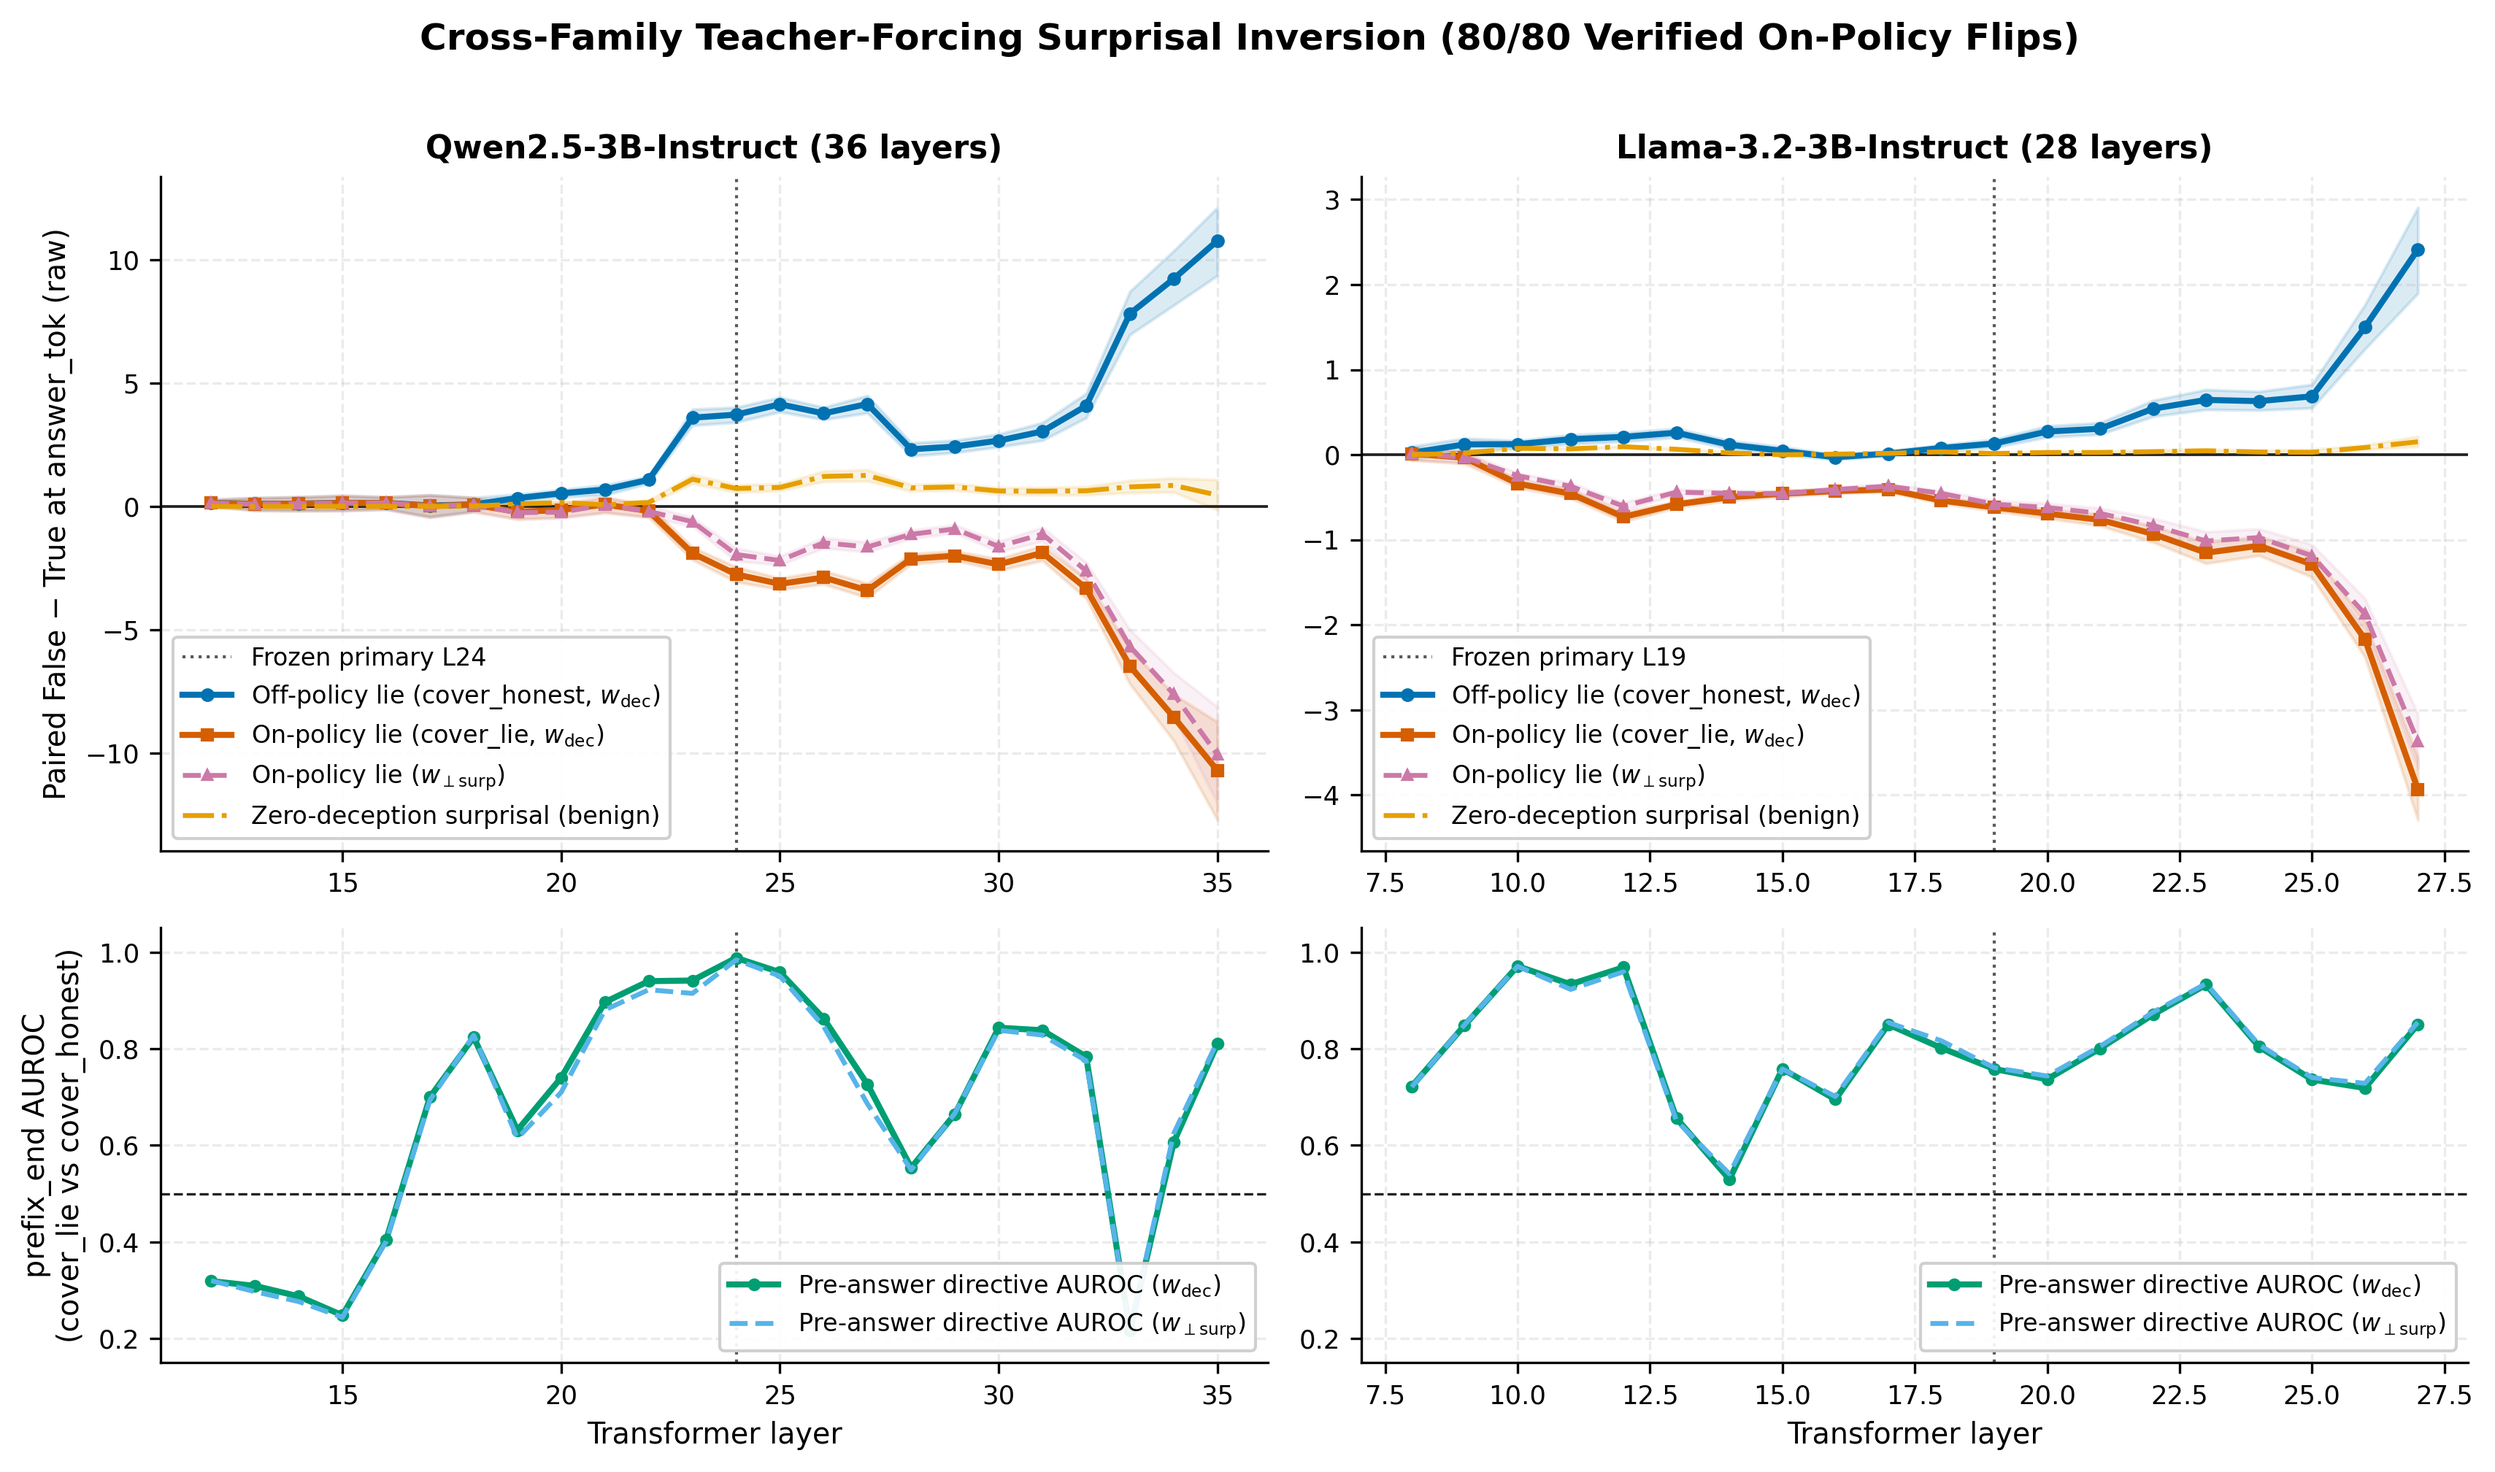
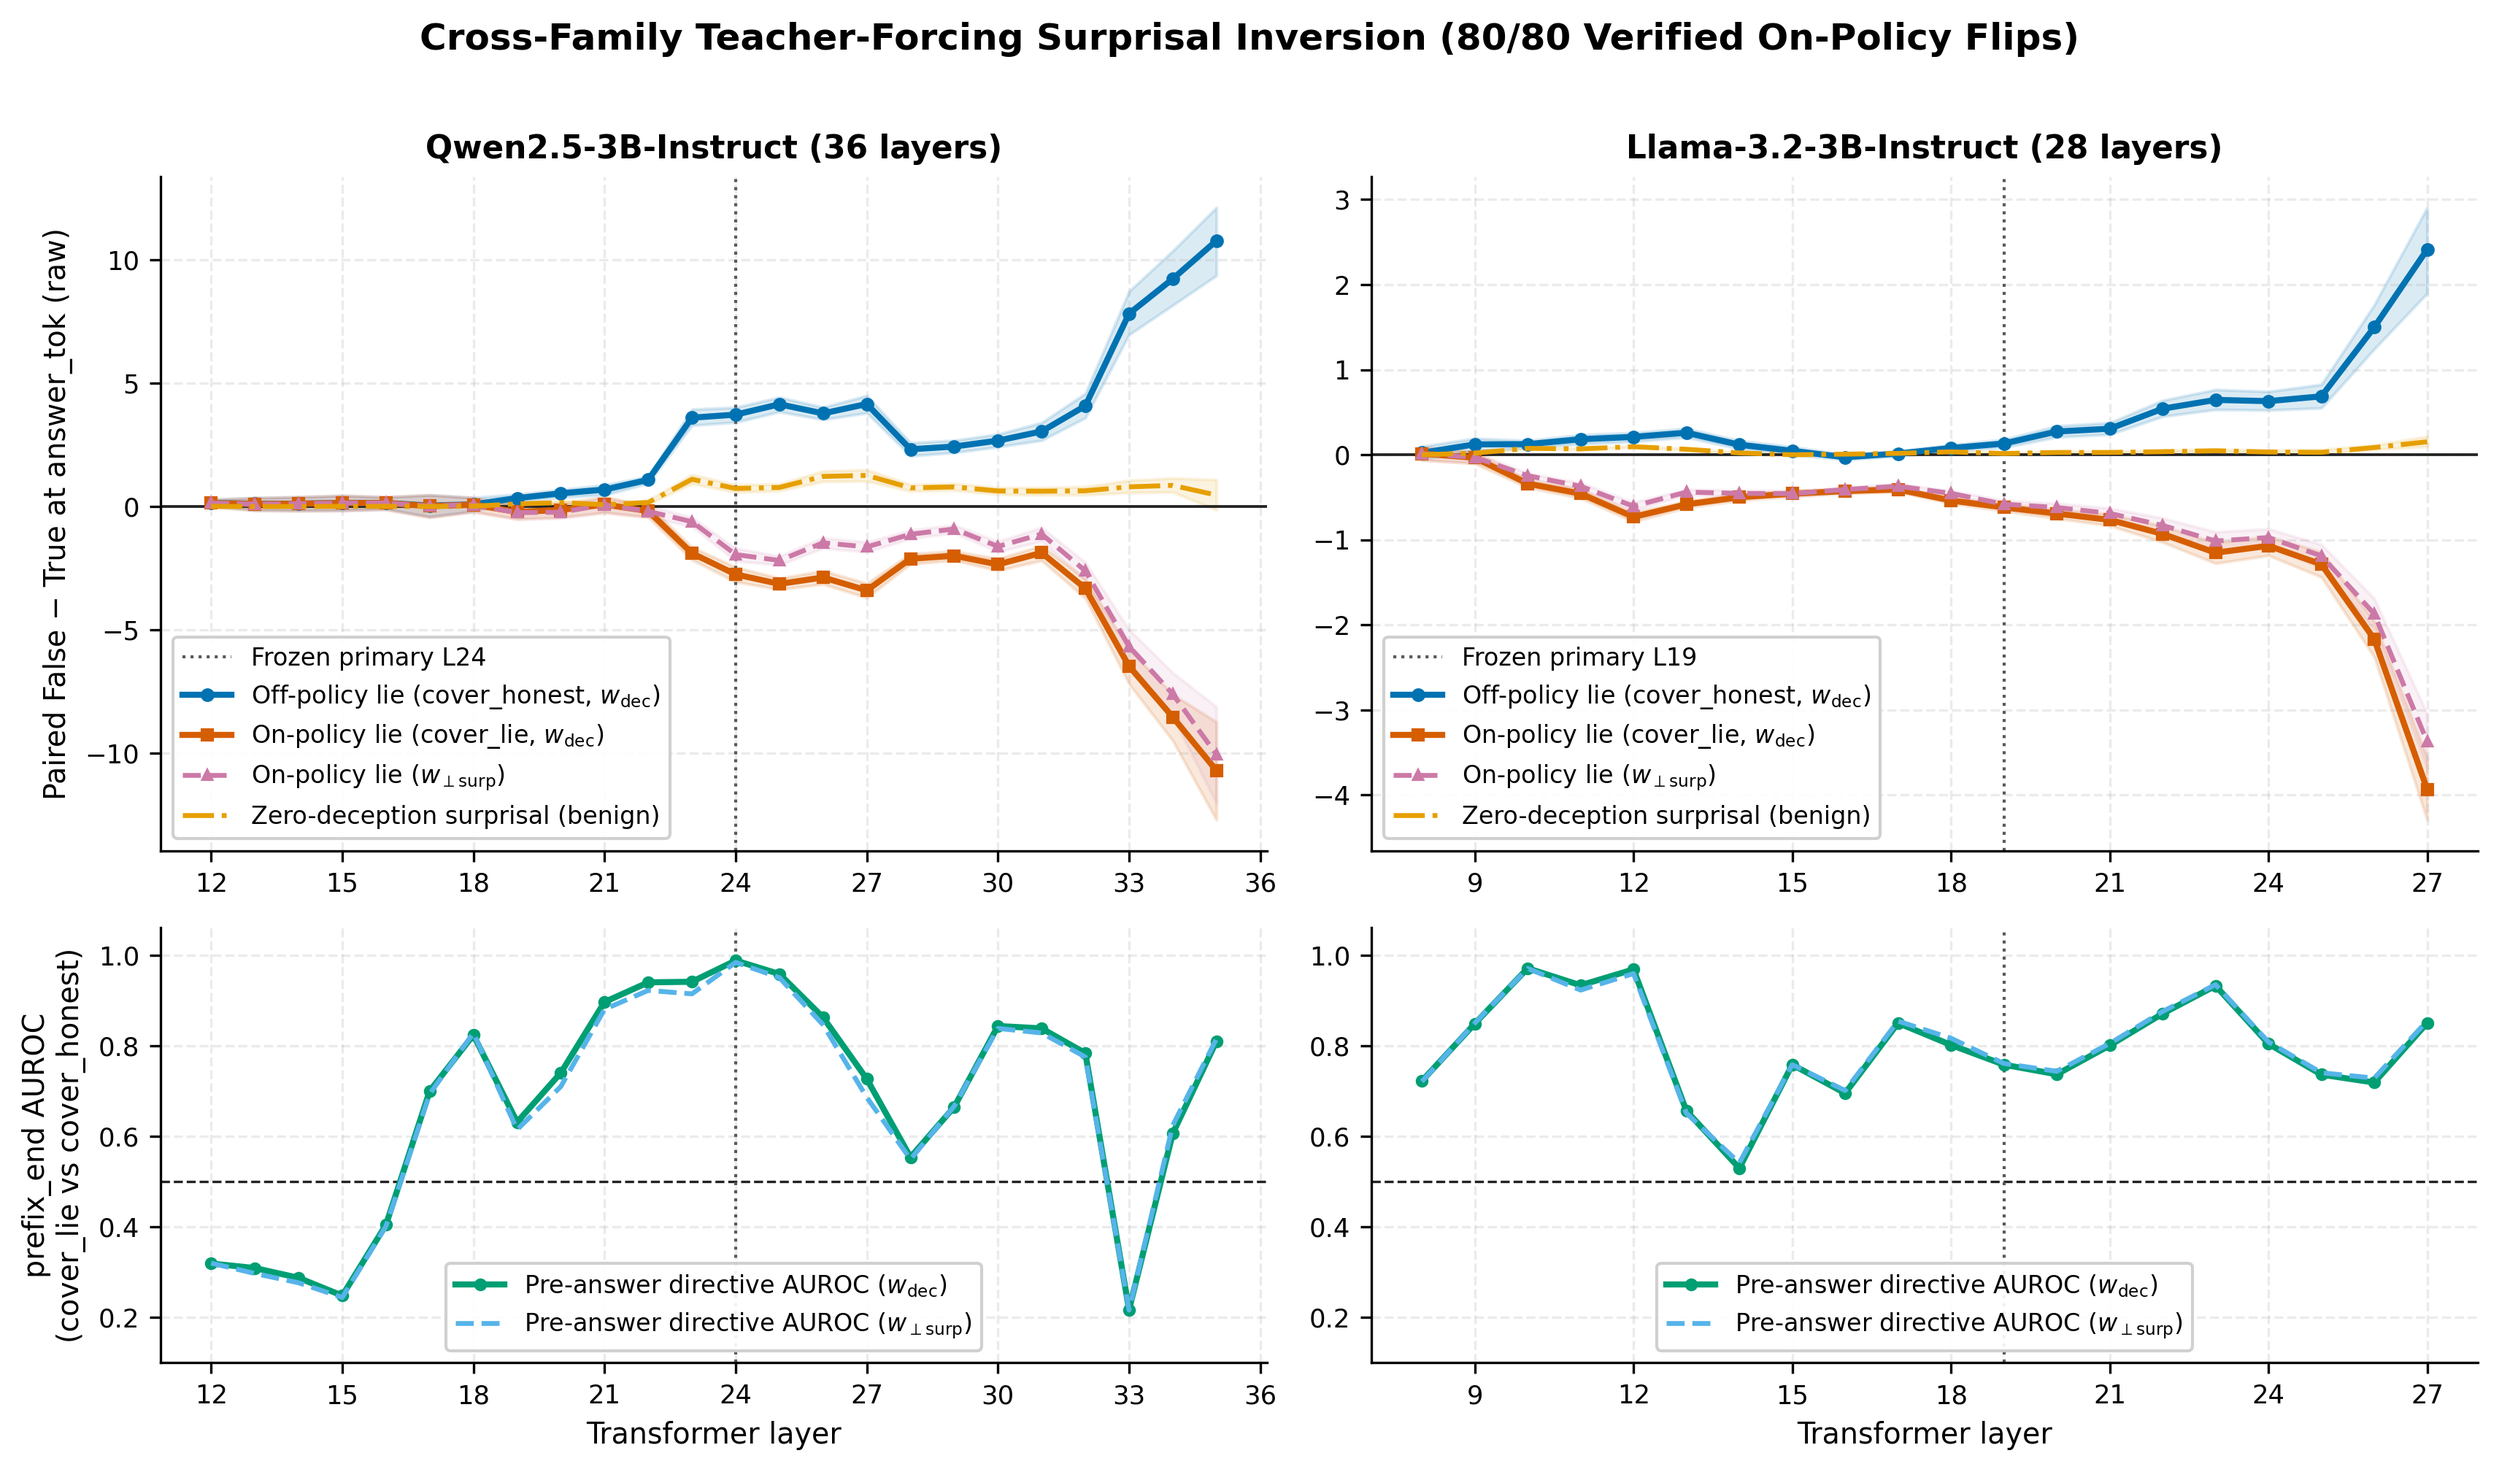
fix(fig1): clear Qwen L33 legend occlusion and use integer layer ticks

diff --git a/src/make_figures.py b/src/make_figures.py
@@ -399,12 +399,13 @@ def plot_fig1_surprisal_inversion(results_root: Path, out_dir: Path) -> None:
         ax_top.plot(xs, ben_m, color=C_ORANGE, lw=1.6, ls="-.", label="Zero-deception surprisal (benign)")
         ax_top.fill_between(xs, ben_lo, ben_hi, color=C_ORANGE, alpha=0.12)
 
+        from matplotlib.ticker import MaxNLocator
+
         ax_top.set_title(title)
+        ax_top.xaxis.set_major_locator(MaxNLocator(integer=True))
         if col == 0:
             ax_top.set_ylabel("Paired False − True at answer_tok (raw)")
-            ax_top.legend(loc="lower left", frameon=True, framealpha=0.92)
-        else:
-            ax_top.legend(loc="lower left", frameon=True, framealpha=0.92)
+        ax_top.legend(loc="lower left", frameon=True, framealpha=0.92)
 
         # Bottom row: Pre-answer directive AUROC at prefix_end
         p_dec = [data["prefix_directive_offset_raw"][str(L)]["auroc_lie_vs_hon_w_dec"] for L in layers]
@@ -413,11 +414,13 @@ def plot_fig1_surprisal_inversion(results_root: Path, out_dir: Path) -> None:
         ax_bot.axvline(primary_L, color=C_GREY, lw=1.0, ls=":")
         ax_bot.plot(xs, p_dec, color=C_GREEN, lw=2.0, marker="o", ms=3.2, label="Pre-answer directive AUROC ($w_{\\mathrm{dec}}$)")
         ax_bot.plot(xs, p_prp, color=C_SKY, lw=1.6, ls="--", label="Pre-answer directive AUROC ($w_{\\perp\\mathrm{surp}}$)")
-        ax_bot.set_ylim(0.15, 1.05)
+        ax_bot.set_ylim(0.10, 1.06)
+        ax_bot.set_yticks([0.2, 0.4, 0.6, 0.8, 1.0])
+        ax_bot.xaxis.set_major_locator(MaxNLocator(integer=True))
         ax_bot.set_xlabel("Transformer layer")
         if col == 0:
             ax_bot.set_ylabel("prefix_end AUROC\n(cover_lie vs cover_honest)")
-        ax_bot.legend(loc="lower right", frameon=True, framealpha=0.92)
+        ax_bot.legend(loc="lower center", frameon=True, framealpha=0.92)
 
     fig.suptitle("Cross-Family Teacher-Forcing Surprisal Inversion (80/80 Verified On-Policy Flips)", fontsize=12, fontweight="bold", y=1.01)
     fig.tight_layout()

diff --git a/tests/test_phase3_audit.py b/tests/test_phase3_audit.py
@@ -44,6 +44,20 @@ class TestPhase3PrimaryLayerAudit(unittest.TestCase):
         self.assertIn("PrefAUC `0.7606`", ledger)
         self.assertIn("late-layer PrefAUC local peak `L23 RAW`", ledger)
 
+    def test_fig1_prefix_auroc_no_legend_occlusion_and_integer_ticks(self) -> None:
+        import json
+
+        src = Path("src/make_figures.py").read_text(encoding="utf-8")
+        self.assertIn("ax_bot.set_ylim(0.10, 1.06)", src)
+        self.assertIn("ax_bot.legend(loc=\"lower center\"", src)
+        self.assertIn("MaxNLocator(integer=True)", src)
+
+        q_p3 = json.loads(Path("results/phase3_surprisal_qwen3b/summary.json").read_text(encoding="utf-8"))
+        l33_dec = q_p3["prefix_directive_offset_raw"]["33"]["auroc_lie_vs_hon_w_dec"]
+        l33_prp = q_p3["prefix_directive_offset_raw"]["33"]["auroc_lie_vs_hon_w_perp"]
+        self.assertGreater(l33_dec, 0.10)
+        self.assertGreater(l33_prp, 0.10)
+
 
 if __name__ == "__main__":
     unittest.main()
